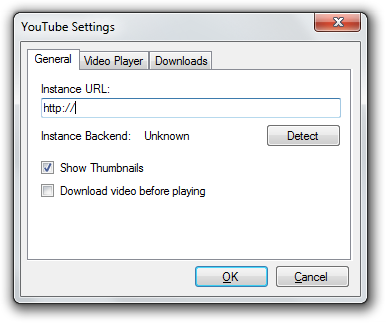
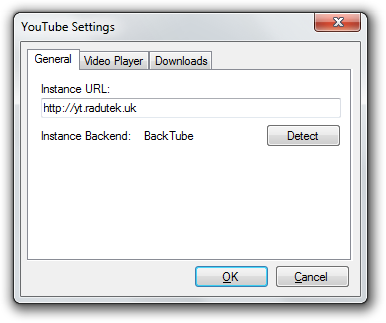
Update README and screenshots

diff --git a/docs/screenshots.md b/docs/screenshots.md
@@ -2,35 +2,25 @@
 
 Here are screenshots of the application, with descriptions of what you can see.
 
-## Main Window
+## Browse Window
 
-![Main Window](youtube.png)
+![Browse Window](youtube.png)
 
-Type in a search query in the top search box, and click Search or press Enter.
+Browse videos by search, or by selecting a feed in the left "Guide" panel. More views will come soon (channel, playlist, favorites and downloads).
 
-To watch a video, click on the thumbnail picture, or right click on the entry and press Watch Now.
+To play a video, just click the title.
 
-To download a video, select Download from the right click menu.
+## Watch Window
 
-To queue a video, click the `+` icon on the thumbnail, or right click and select Queue.
+![Watch Window](watch.png)
 
-You can also open the video in the browser by clicking the title link. To open the channel, click the channel name link.
+When you click on a video title, the app switches into the watch window. You can go back to the Browse window at any time by clicking the upper right corner button.
 
-In the Menu, the Settings and About options are available.
+Videos play in an embedded Windows Media Player control, with a custom UI. To toggle full screen, click the full screen button, `F` key, `F11` key or `Alt`+`Enter` keys. Press `T` or the enlarge video button at the top to make the video fill the whole window (hide description and related panels).
 
-### Downloads Popup
+Press `F1` to view help about more supported keyboard shortcuts, like `0`-`9` to skip to video sections, arrow keys and more.
 
-![Downloads Popup](downloads.png)
-
-Here all the downloaded videos will be listed. Double click to play, or use the right click menu.
-
-### Queue Popup
-
-![Queue Popup](queue.png)
-
-Videos added to the queue will appear here. Select and press the `Delete` key on the keyboard to remove from the list.
-
-Click the play icon to generate a playlist `.m3u` file and open it in the configured video player automatically.
+Click on a related video to watch it.
 
 ## Settings Window
 
@@ -38,14 +28,13 @@ Click the play icon to generate a playlist `.m3u` file and open it in the config
 
 - Instance URL: This is the URL to the server
 - Instance Backend: Shows the detected instance type (BackTube, yt2009, Unknown). Click `Detect` to detect type.
-- Show Thumbnails: Show or hide thumbnails in search results, to save loading time and bandwidth
-- Download video before playing: Check to download the video into your downloads folder, and play it locally without streaming
+<!-- - Download video before playing: Check to download the video into your downloads folder, and play it locally without streaming -->
 
 ### Video Player
 
 ![Settings Video Player Page](settings2.png)
 
-Select the streaming quality and the default player for watching videos.
+**Video Quality:** Select the streaming quality and the default player for watching videos.
 
 When using BackTube, all quality levels are available. For yt2009, only 720p and 360p are available, selecting other options will choose the next lowest quality (1080p -> 720p, 480p -> 360p).
 
@@ -53,14 +42,18 @@ If Windows Media Player is selected, it will be launched automatically, optional
 
 If Custom is selected, you have to specify a path to an executable, and the video file or URL will be the 1st and only command-line argument.
 
-### Downloads
+**Auto play videos** - Videos start automatically when selected
+
+**Use large controls in full screen (for tablets)** - Make playback buttons larger in fullscreen
+
+<!-- ### Downloads
 
 ![Settings Downloads Page](settings3.png)
 
-Set the downloads folder. Defaults to `%USERPROFILE%\My Documents\My Videos` on Windows XP, and `%USERPROFILE%\Videos` on Vista and later.
+Set the downloads folder. Defaults to `%USERPROFILE%\My Documents\My Videos` on Windows XP, and `%USERPROFILE%\Videos` on Vista and later. -->
 
-## About Dialog
+<!-- ## About Dialog
 
 ![About Dialog](about.png)
 
-Pretty self-explanatory, isn't it.
+Pretty self-explanatory, isn't it. -->

diff --git a/README.md b/README.md
@@ -2,7 +2,7 @@
 
 YouTube desktop client for recreation backends (like [BackTube](https://github.com/RaduTek/BackTube) or [yt2009](https://github.com/ftde0/yt2009))
 
-![Screenshot of main window](docs/youtube.png)
+![Screenshot of application](docs/overview.png)
 
 [Install with ClickOnce](https://pub.radutek.uk/ClickOnce/YouTube.application) (also updates automatically)
 
@@ -14,26 +14,38 @@ On some 2000s low end devices, like UMPCs, the Flash Player is barely able to pl
 
 So this .NET Framework 2.0 application offers a native frontend for the server, using the YouTube Data API v2.0, that's also used by mobile applications.
 
-The application loads the search results for a given query, then for video playback it opens the video player application with the URL to the video file on the server.
+New in version 2.0: Browse and watch videos directly in the application, without opening a separate player. Hardware acceleration is supported too.
 
-## Features
+<!-- ## Features
 
 - Search for videos
 - Download videos
 - Queue videos for playback into a temporary playlist
-- Prioritizes downloaded videos over streaming
+- Prioritizes downloaded videos over streaming -->
 
 ## How to use
 
-- Install with ClickOnce, download a pre-built version or build the application yourself. It's a single EXE, only depending on .NET Framework 2.0
-- Launch it, go to Menu > Settings and type in the address of your instance
+- Install with ClickOnce, download a pre-built version or build the application yourself.
+- Launch it, go to Settings and type in the address of your instance
 - Enjoy: search for and watch videos
 
 ## Requirements
 
-Tested on Windows XP with Windows Media Player 10, Windows 7 and Windows 10.
+- .NET Framework 2.0 or higher (3.5 required for ClickOnce installation)
+- Internet Explorer 7 or later (>= 8 is recommended)
 
-- Windows XP and Vista: A codec pack capable of demuxing MP4 and decoding H.264 and AAC is necessary. I've used K-Lite Codec Pack.
-- Windows 7 and later: All necessary codecs are already included with WMP.
+(Internet Explorer is used to render the video lists and the video description)
 
-You can also configure the media player application to be MPC-HC, VLC or any other application of your choice. It has to support `http://` URLs for streaming to work, and `.m3u` playlists for the queue feature.
+### Compatibility
+
+**Tested on Windows XP with Windows Media Player 10, Windows Vista, Windows 7 and Windows 10.**
+
+- **Windows XP and Vista**: A codec pack capable of demuxing MP4 and decoding H.264 and AAC is necessary. I've used K-Lite Codec Pack.
+
+- **Windows 7 and later**: All necessary codecs are already included with WMP.
+
+### Tests
+
+- Samsung Q1 Ultra (Intel A100 and A110): Play videos smoothly in 360p only
+- Eee PC 901 (Intel Atom N270): Play videos smoothly in 480p, sometimes 720p (especially with Super Hybrid Engine / overclock)
+- Sony VAIO P (Intel Atom Z540 - GMA 500 / Poulsbo US15W): Play videos smoothly in 1080p with hardware acceleration (working in Windows 7 out-of-box) - CPU usage at 20-30%.
